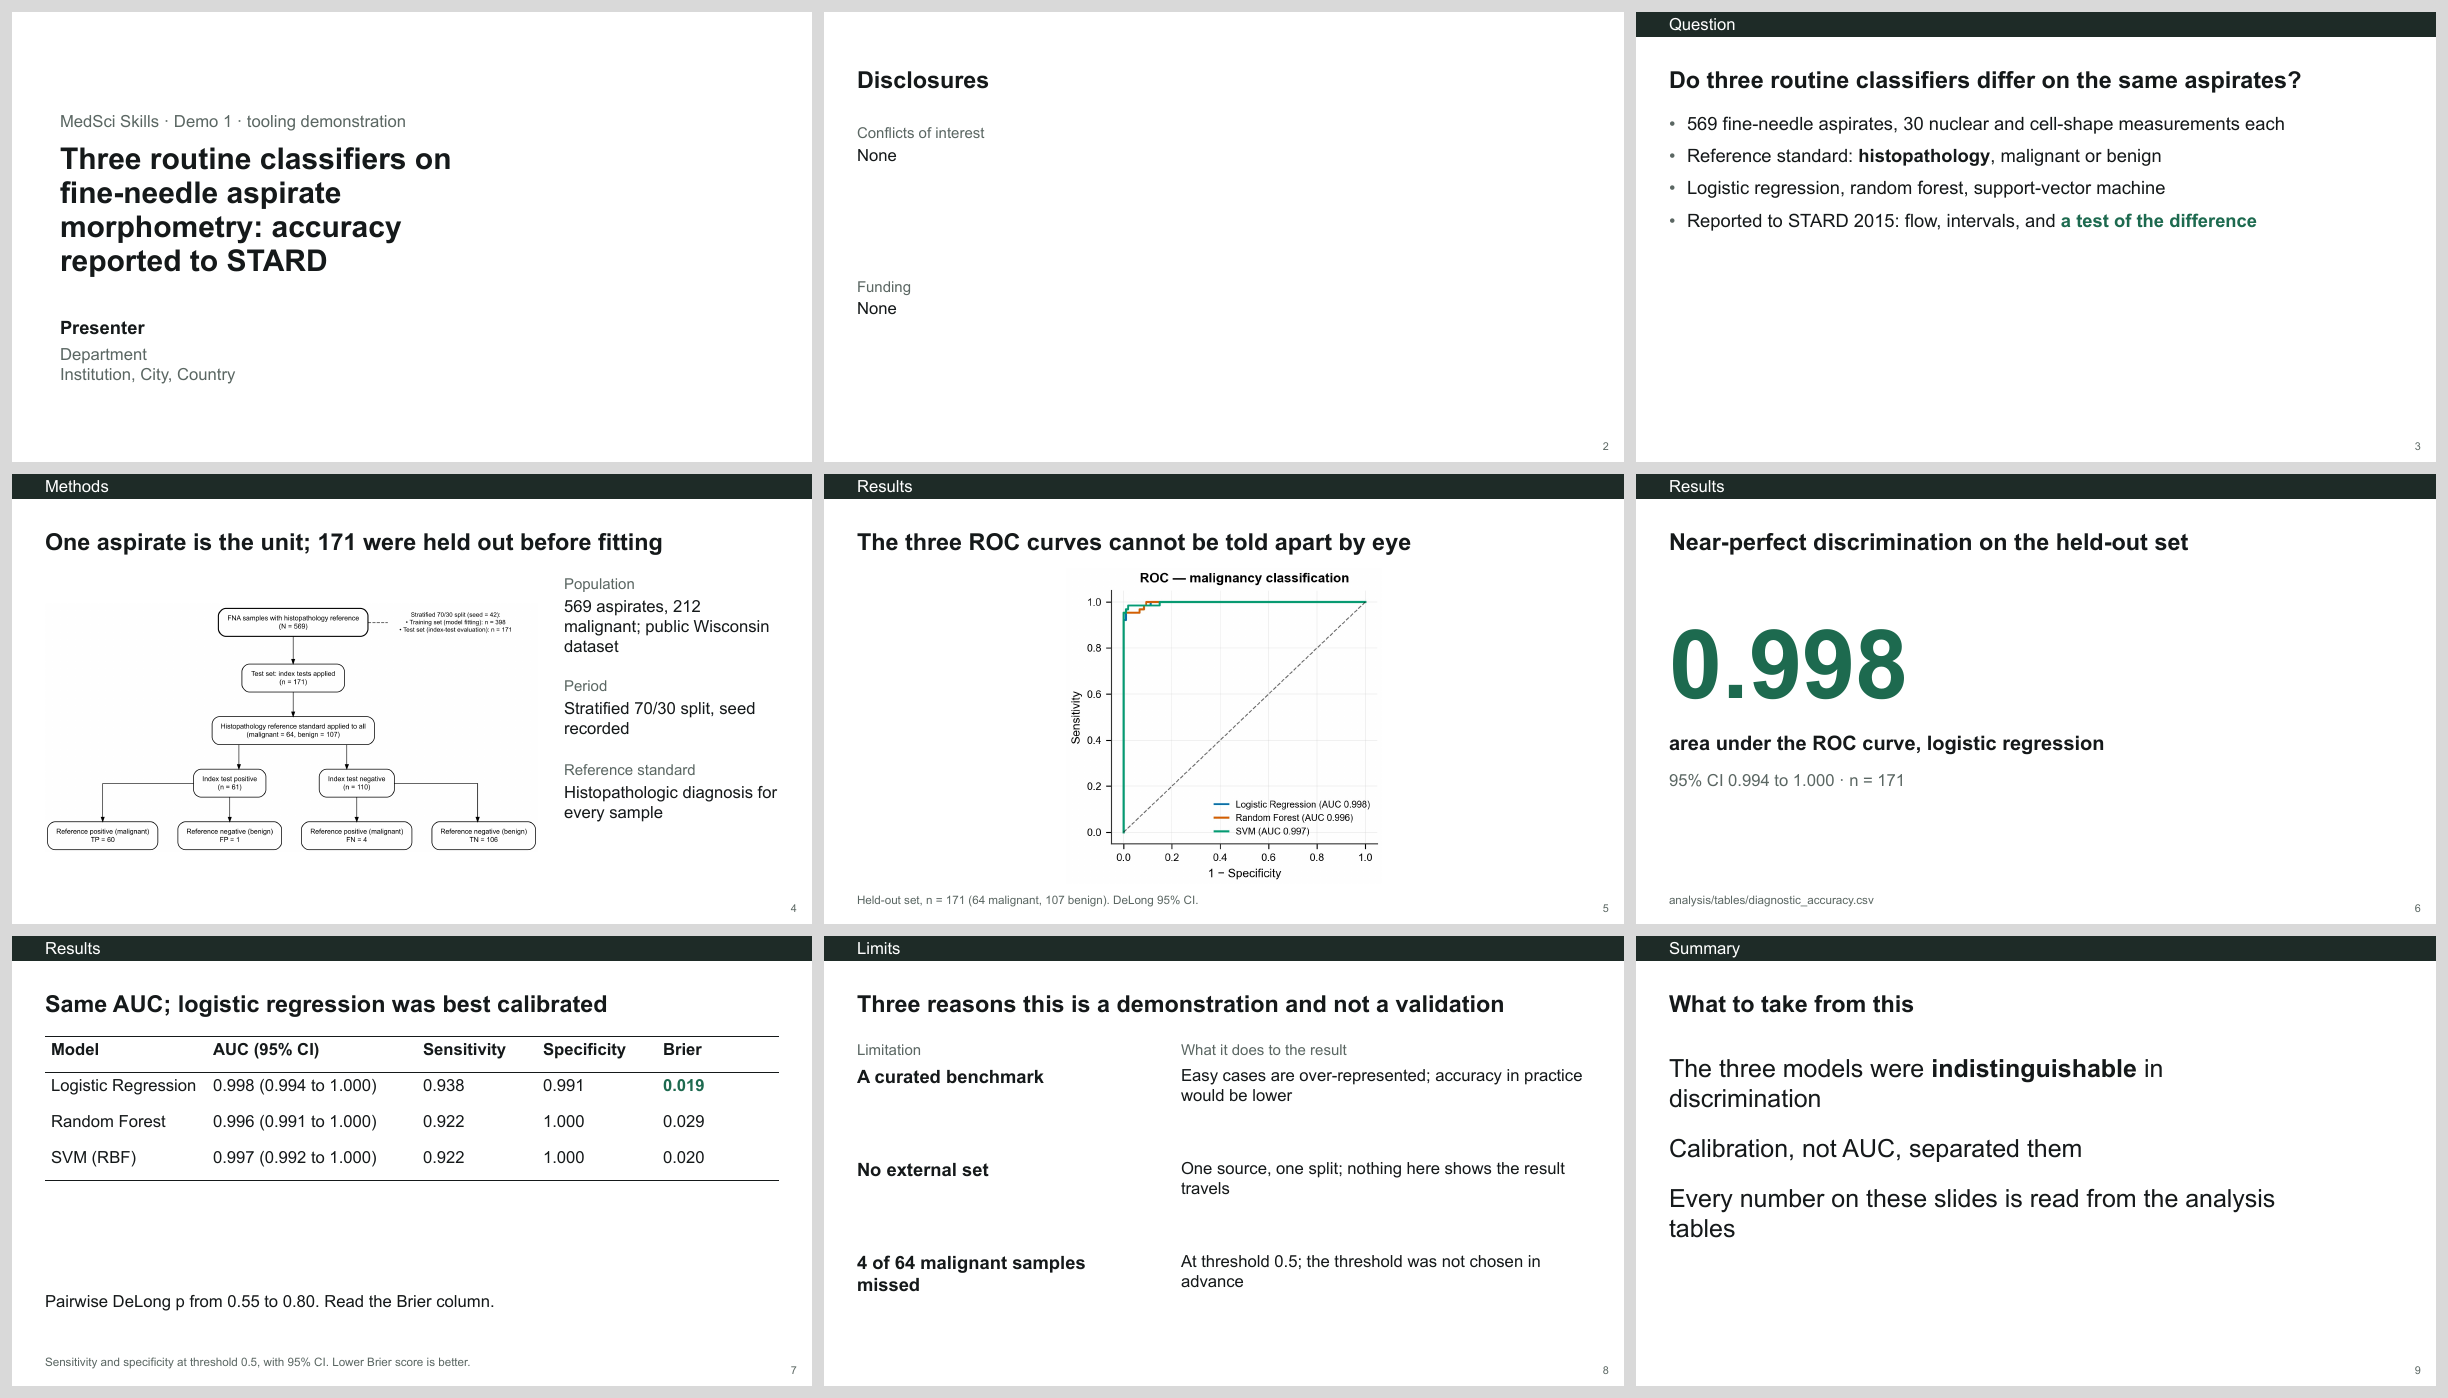
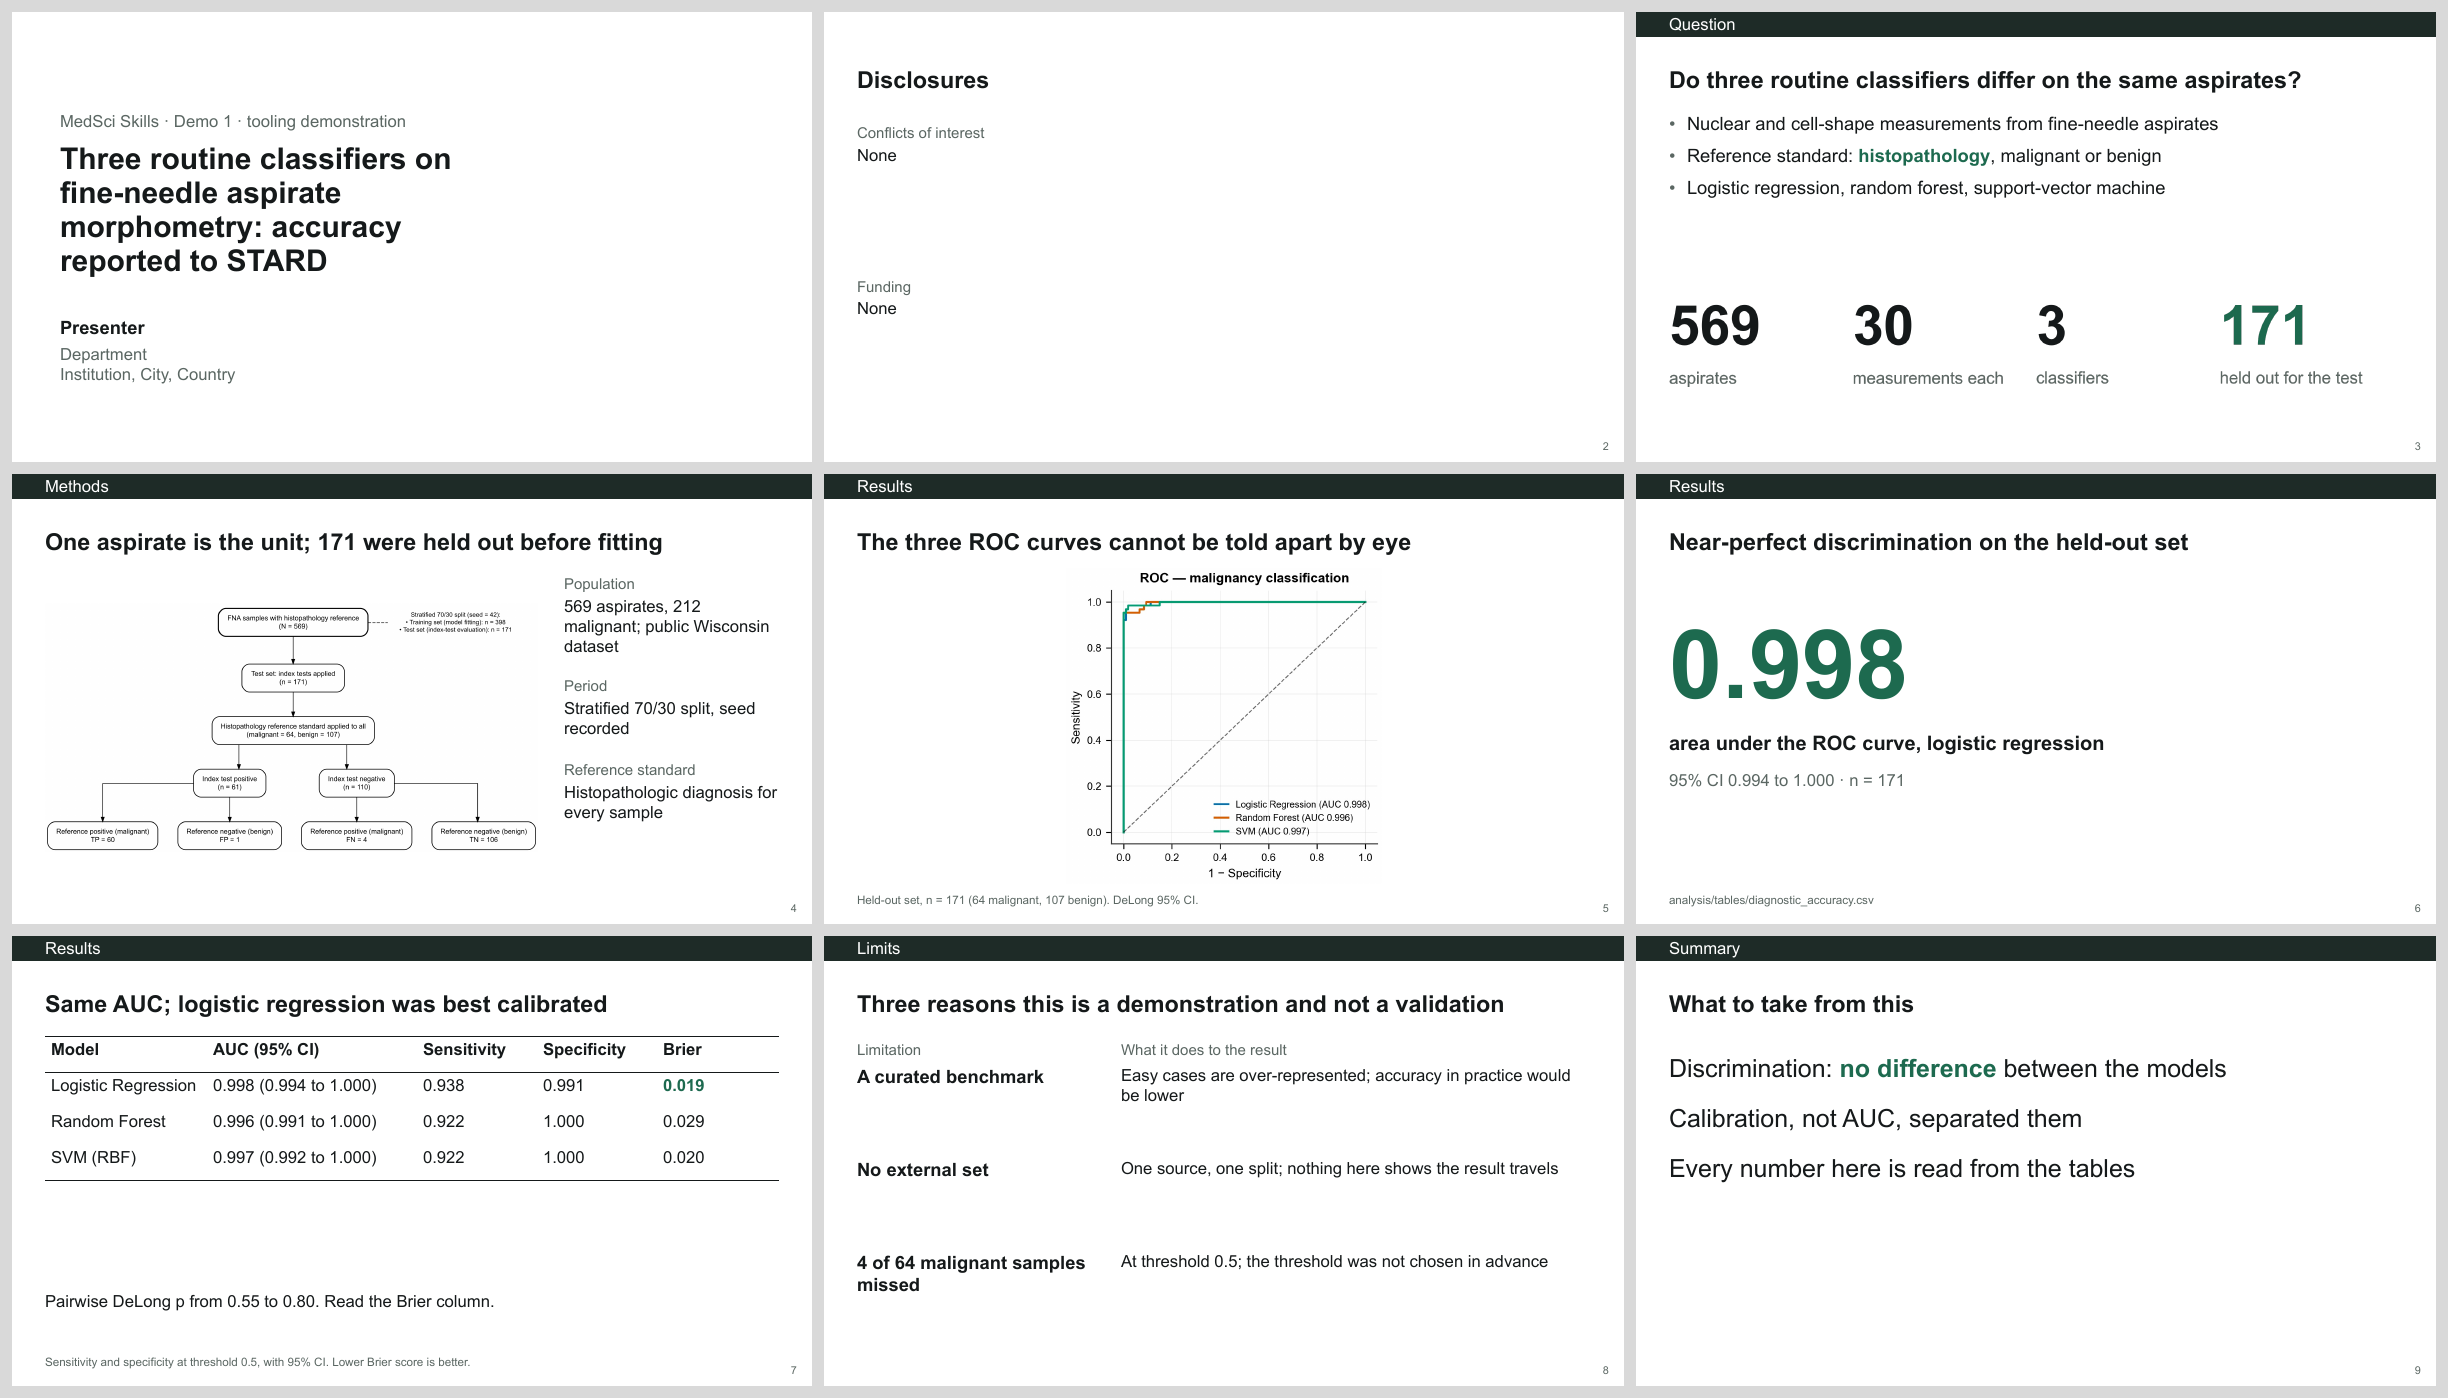
feat(present-paper): narrower left column on Limitations; Demo 1 deck uses colour emphasis and a numbers strip
Claude-Session: https://claude.ai/code/session_01RhVYtTXa7T2kwRafuoUNyp

diff --git a/demo/01_wisconsin_bc/presentation/build_deck.py b/demo/01_wisconsin_bc/presentation/build_deck.py
@@ -14,8 +14,13 @@ import csv
 import sys
 from pathlib import Path
 
-from pptx import Presentation
-from pptx.util import Inches
+import tempfile
+
+import matplotlib
+matplotlib.use("Agg")
+import matplotlib.pyplot as plt   # noqa: E402
+from pptx import Presentation     # noqa: E402
+from pptx.util import Inches      # noqa: E402
 
 HERE = Path(__file__).resolve().parent
 DEMO = HERE.parent
@@ -53,6 +58,26 @@ def ci(row, key):
 COL_W = [2.7, 3.5, 2.0, 2.0, 2.03]     # inches; the interval column is the wide one
 
 
+def scale_strip(path):
+    """The study in four numbers, drawn as one strip: type only, in the palette's ink, accent and grey."""
+    pal = t.PALETTES[PALETTE]
+    items = [(str(n_all), "aspirates"), ("30", "measurements each"), ("3", "classifiers"),
+             (str(n_test), "held out for the test")]
+    plt.rcParams["font.family"] = ["Arial", "DejaVu Sans"]
+    fig = plt.figure(figsize=(12.2, 2.3))
+    ax = fig.add_axes([0, 0, 1, 1])
+    ax.set_axis_off()
+    for k, (number, label) in enumerate(items):
+        x = k * 0.25
+        last = k == len(items) - 1
+        ax.text(x, 0.40, number, fontsize=66, fontweight="bold", color="#" + (pal["accent"] if last else pal["ink"]),
+                ha="left", va="baseline")
+        ax.text(x, 0.12, label, fontsize=20, color="#" + pal["muted"], ha="left", va="baseline")
+    fig.savefig(path, dpi=200, transparent=True)
+    plt.close(fig)
+    return path
+
+
 # (layout, section name, {placeholder idx: text}, options)
 SLIDES = [
     ("Cover", None,
@@ -65,11 +90,11 @@ SLIDES = [
      dict(notes="이해관계와 연구비는 없습니다.")),
     ("Content", "Question",
      {0: "Do three routine classifiers differ on the same aspirates?",
-      1: [f"{n_all} fine-needle aspirates, 30 nuclear and cell-shape measurements each",
-          "Reference standard: **histopathology**, malignant or benign",
-          "Logistic regression, random forest, support-vector machine",
-          "Reported to STARD 2015: flow, intervals, and [[a test of the difference]]"]},
-     dict(notes="질문은 하나입니다. 같은 측정값을 넣었을 때 흔히 쓰는 세 모형이 서로 다른가. 점추정치를 나란히 놓는 것으로는 "
+      1: ["Nuclear and cell-shape measurements from fine-needle aspirates",
+          "Reference standard: [[histopathology]], malignant or benign",
+          "Logistic regression, random forest, support-vector machine"]},
+     dict(strip=True,
+          notes="질문은 하나입니다. 같은 측정값을 넣었을 때 흔히 쓰는 세 모형이 서로 다른가. 점추정치를 나란히 놓는 것으로는 "
                 "답이 안 되고, 차이를 검정해야 합니다.")),
     ("Study Design", "Methods",
      {0: f"One aspirate is the unit; {n_test} were held out before fitting",
@@ -110,9 +135,9 @@ SLIDES = [
                 "임계값을 사후에 고르면 낙관 편향이 생기므로 여기서는 고르지 않았습니다.")),
     ("Take-home", "Summary",
      {0: "What to take from this",
-      1: ["The three models were **indistinguishable** in discrimination",
+      1: ["Discrimination: [[no difference]] between the models",
           "Calibration, not AUC, separated them",
-          "Every number on these slides is read from the analysis tables"]},
+          "Every number here is read from the tables"]},
      dict(notes="정리합니다. 판별력은 세 모형이 같았고, 갈린 것은 보정이었습니다. 그리고 이 슬라이드의 숫자는 모두 "
                 "분석 표에서 읽어 온 것이라, 결과가 바뀌면 덱도 같이 바뀝니다. 감사합니다.")),
 ]
@@ -130,6 +155,12 @@ def build(out, band=True):
             nd.put_rich(slot[idx], value)
         if section and 20 in slot:
             nd.fill(slot[20], section)
+        if opt.get("strip"):
+            body = slot[1]                     # all four, or python-pptx writes the others as zero
+            body.left, body.top, body.width, body.height = body.left, body.top, body.width, Inches(2.0)
+            with tempfile.TemporaryDirectory() as tmp:
+                s.shapes.add_picture(str(scale_strip(Path(tmp) / "strip.png")), Inches(t.MARGIN), Inches(4.15),
+                                     width=Inches(t.CW))
         if "picture" in opt:
             nd.fit_picture(slot[30], opt["picture"], opt.get("align", "l"))
         if "table" in opt:

diff --git a/skills/present-paper/templates/slide_template/build_slide_template.py b/skills/present-paper/templates/slide_template/build_slide_template.py
@@ -600,7 +600,7 @@ def comparison_layout(ids):
 
 
 def limitations_layout(ids):
-    lw = 4.9
+    lw = 3.9     # the name of a limitation is short; the room goes to what it does to the result
     rx = MARGIN + lw + 0.5
     rw = SW - MARGIN - rx
     shapes = [static_label(ids, "Limitation", MARGIN, 1.74, lw),

diff --git a/CHANGELOG.md b/CHANGELOG.md
@@ -19,6 +19,11 @@
 
 ### Changed
 
+- **`/present-paper`: the Limitations layout gives its left column less room.** The name of a
+  limitation is short, so the left column is 3.9 in (was 4.9 in) and the text on what it does to
+  the result gains the difference. `medsci_slides.pptx` is rebuilt. Demo 1's talk now marks
+  emphasis in the accent colour, keeps each take-home line on one line and opens the question
+  slide with the study's four numbers drawn as one strip.
 - **`/present-paper`: guidance for borrowed figures, small edits and terms.** The design guidelines
   now list what a cropped panel must keep (axes, legend, scale bar, panel letter, side and
   sequence labels on an image), the form of the source line on a slide and what a shared copy adds to it, and what the row for

diff --git a/demo/01_wisconsin_bc/presentation/README.md b/demo/01_wisconsin_bc/presentation/README.md
@@ -6,7 +6,8 @@ A 10-minute `conference_oral` talk built on the medsci slide template
 ![The nine slides](contact_sheet.png)
 
 `build_deck.py` starts the deck with `new_deck.make_deck(palette="pine", band=True)` and fills it by
-layout name and placeholder idx: `put_rich` for the bold and accent spans, `fit_picture` for the
+layout name and placeholder idx: `put_rich` for the accent-colour spans, a strip of the study's
+four numbers drawn with matplotlib, `fit_picture` for the
 figures the analysis already produced, `plain_table` and `set_cell(accent=True)` for the table.
 `make_deck.sh` builds it and runs the two gates this repository requires of a deck:
 
